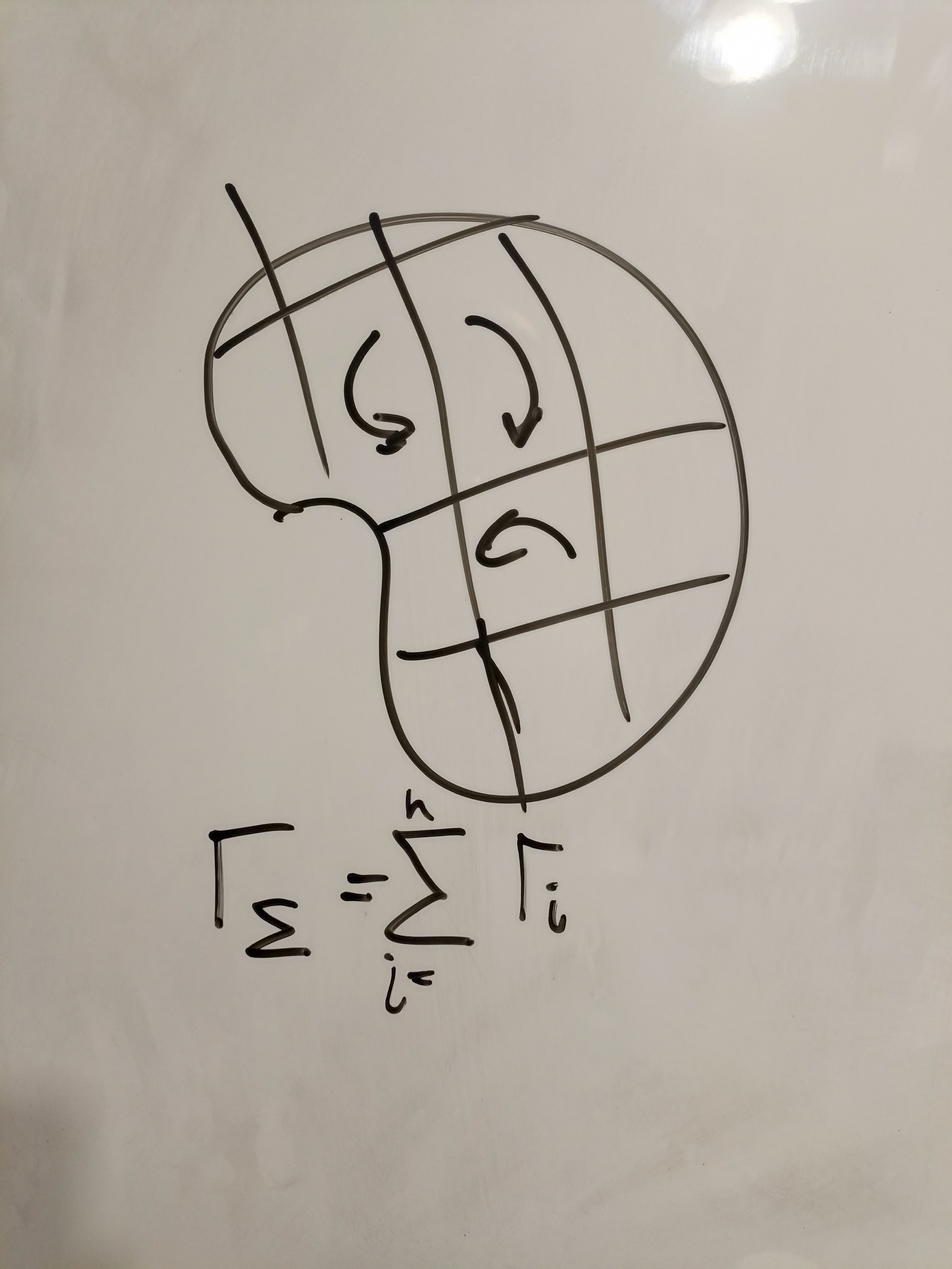
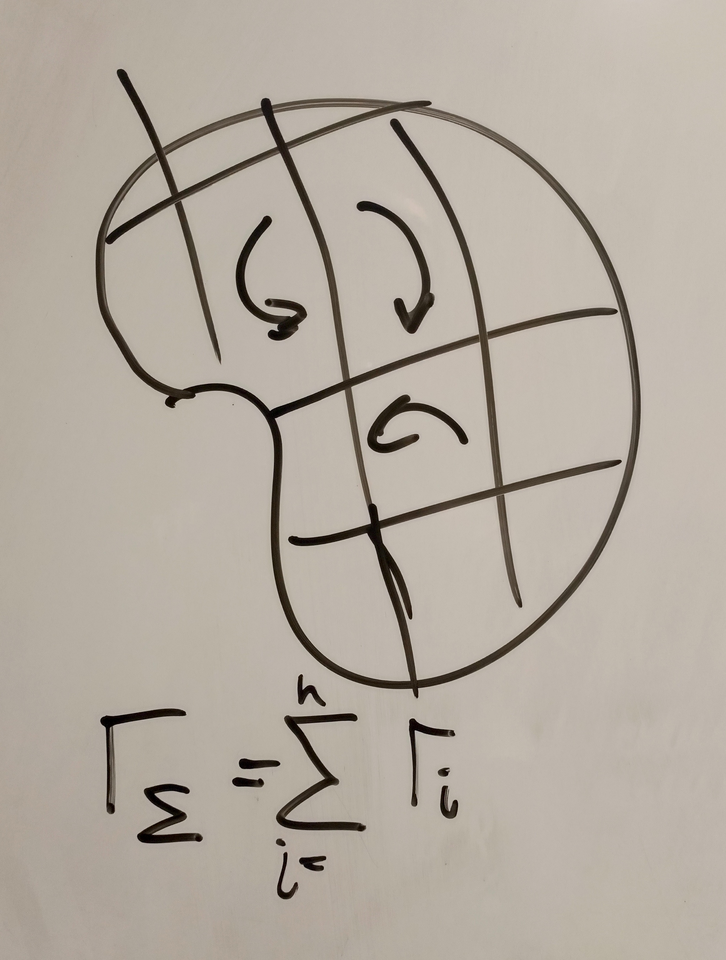
Sync from Private Vault: vault backup: 2026-02-05 20:28:23

diff --git a/Физика/01_ЭЛЕМЕНТЫ ТЕОРИИ ПОЛЯ.md b/Физика/01_ЭЛЕМЕНТЫ ТЕОРИИ ПОЛЯ.md
@@ -129,6 +129,8 @@ $$ \Gamma_v = \oint_L \vec{v} \cdot d\vec{l} $$
 $$ \Gamma_{\Sigma} = \sum \Gamma_i $$
 Циркуляция по большому контуру равна сумме циркуляций по маленьким контурам, на которые он разбит (внутренние границы сокращаются).
 
+![[IMG_20260205_195628_715.jpg|278x368]]
+
 ---
 
 ## 7. Ротор ($\text{rot}$)
